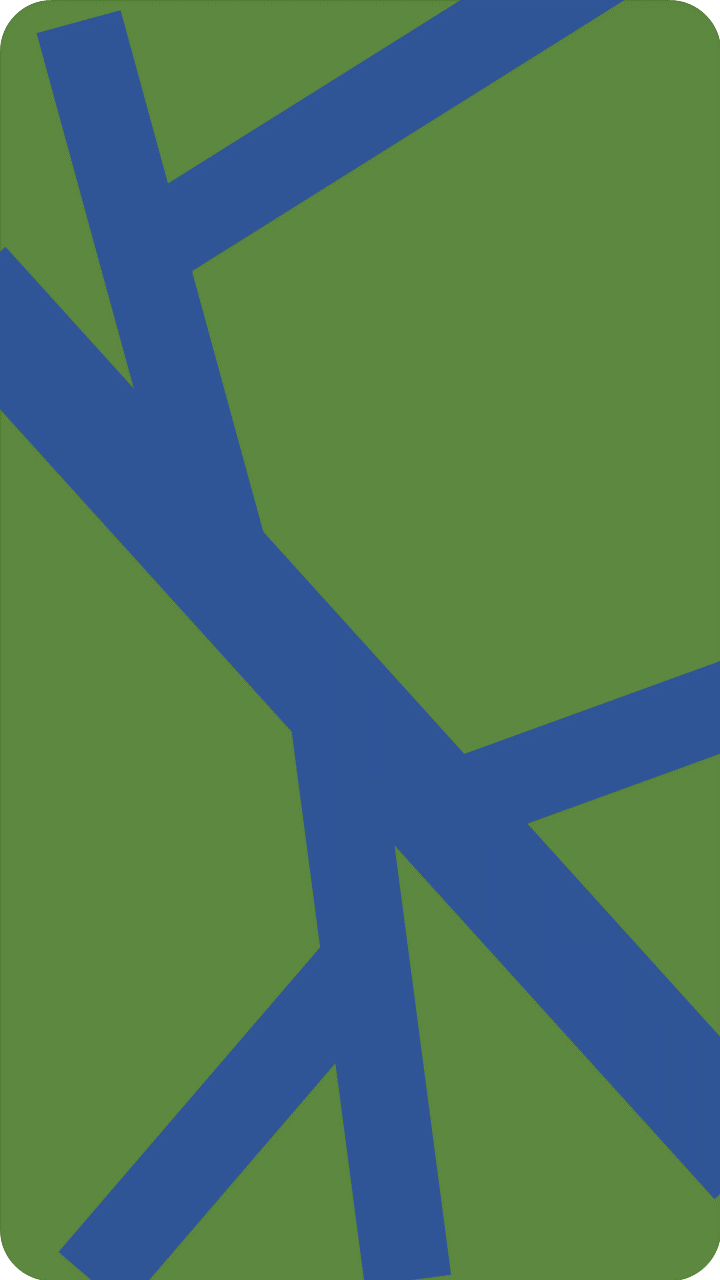
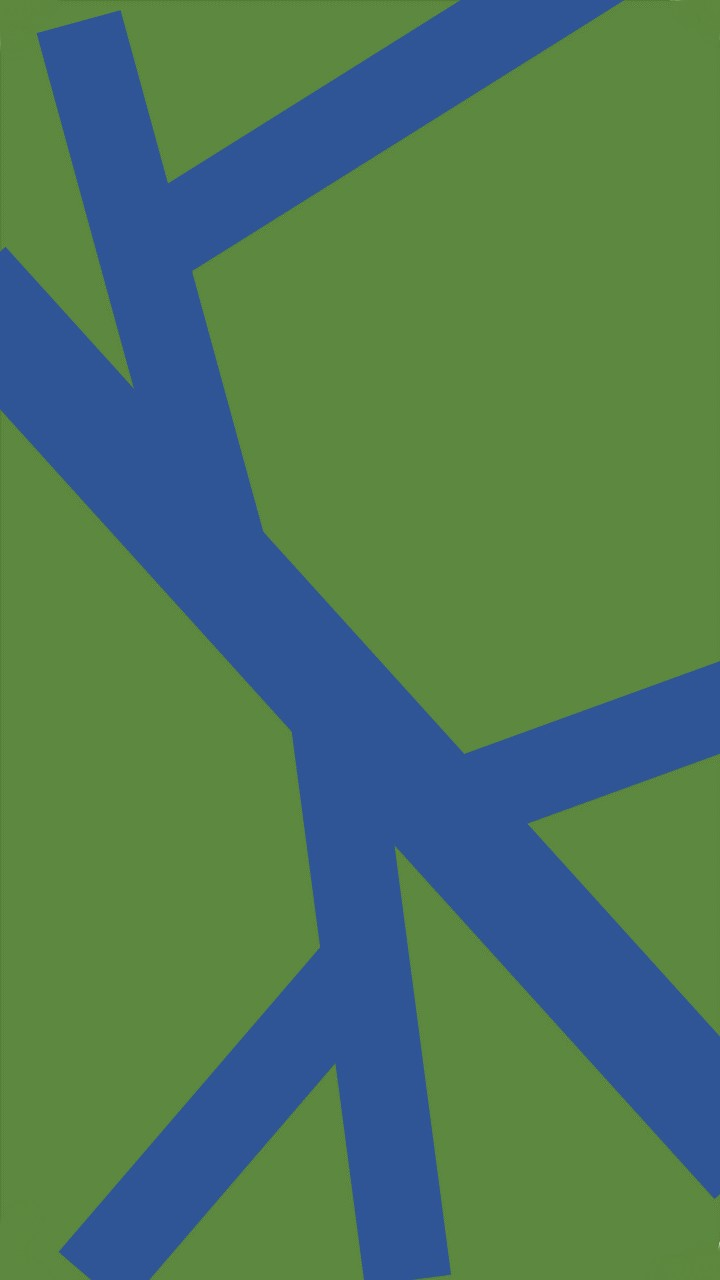
Fixed Brain Break page background conflict and changed background images

diff --git a/styles.js b/styles.js
@@ -13,19 +13,32 @@ const styles = StyleSheet.create({
     },
     breakText: {
         textAlign: 'center',
-        marginTop: 15,
+        padding: 5,
+        marginTop: 50,
+        marginLeft: 5,
+        marginRight: 5,
+        backgroundColor: '#FFF',
         fontSize: 50,
-        fontWeight: "bold"
+        fontWeight: "bold",
+        borderRadius: 10,
+        borderWidth: 2,
+        borderColor: '#999'
     },
     breakImage: {
+        resizeMode: 'contain',
         marginLeft: 'auto',
         marginRight: 'auto',
-        marginTop: 15,
+        marginTop: 25,
+        height: 350,
+        width: 350,
+        borderRadius:10,
+        borderWidth: 1,
+        borderColor: '#fff'
     },
     button: {
         marginRight:40,
         marginLeft:40,
-       marginTop:10,
+        marginTop:10,
         paddingTop:10,
         paddingBottom:10,
         backgroundColor:'#000',
@@ -37,14 +50,6 @@ const styles = StyleSheet.create({
         textAlign: 'center', 
         color: '#fff', 
         fontSize: 24,
-    },
-    image: {
-        resizemode: 'contain',
-        borderStyle: "solid",
-        borderColor: "black",
-        borderWidth: 5,
-        height: 350,
-        width: 350
     },
     background: {
         height: '100%',

diff --git a/BrainBreakScreen.js b/BrainBreakScreen.js
@@ -10,7 +10,7 @@ import walkingImage from './assets/walking.png'
 import fruitImage from './assets/peaches.png'
 import stretchingImage from './assets/stretch.png'
 import phoneImage from './assets/phone.png'
-import styles from './styles'
+import { styles } from './styles'
 import riverImage from './assets/rivers.jpg';
 
 /*
@@ -47,13 +47,15 @@ const getRandom = () => {
 const BrainBreakScreen = ({navigation, route}) => {
    const random = getRandom();
     return (
-      <View>
+      <View style={styles.container}>
         <ImageBackground source={riverImage} resizeMode="stretch" style={styles.background}>
-          <Text>{random["activity"]}</Text>
+          <Text style={styles.breakText}>
+              {random["activity"]}
+          </Text>
           <Image 
             style={styles.breakImage}
             source={random["image"]}/>
-        </ImageBackground>
+          </ImageBackground>
       </View>
     )
   }
